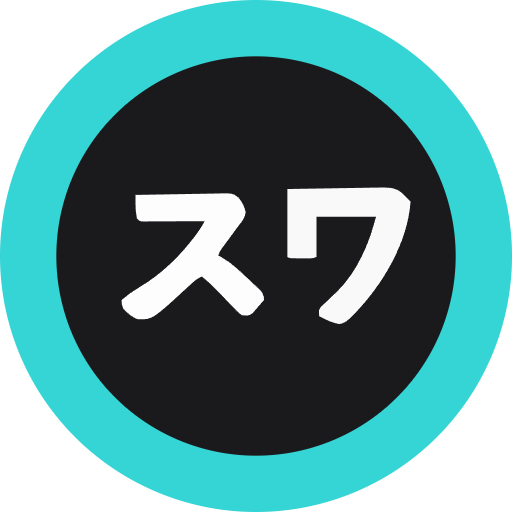
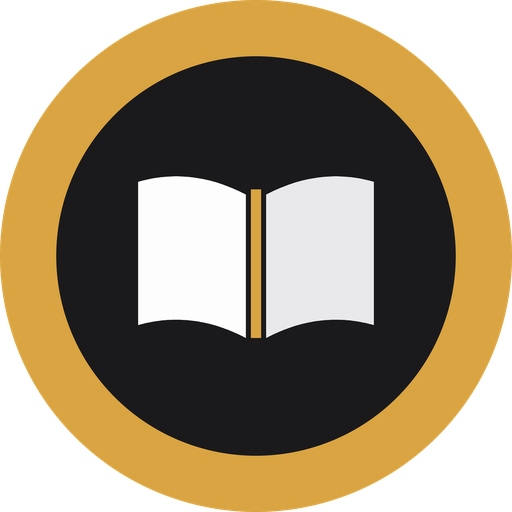
Rebrand the WebUI from Suwayomi/Manatan to Lanobe
Nothing user-visible said "Lanobe". The branding was inherited in three
layers and each said something different: index.html claimed "Manatan",
the runtime overwrote the tab with "- Suwayomi", and the icons were
Suwayomi's artwork.

The tab title came from NavbarContext, which unconditionally appended
" - Suwayomi". Its browserTitle argument defaults to '' whenever the
title is a ReactNode rather than a string, so on those routes the tab
rendered a bare "- Suwayomi" with nothing before the separator. Made the
empty case collapse to just "Lanobe" instead of leaking the dash.

Also replaced: the splash logo (new LanobeLogo, an open book on a dark
disc), every favicon and PWA icon, the manifest name and theme colour,
the meta description -- which described a manga reader running
tachiyomi's extensions -- and the login failure toast.

Deliberately left alone:
  - src/Manatan/ keeps its name to stay diffable against upstream.
  - The ManatanNative / ManatanHost bridge identifiers are internal.
  - AppStorage's `name: 'Manatan'` is the IndexedDB database name.
    Renaming it would point the app at a fresh empty store and orphan
    custom fonts and cached novel content, the same reason
    .manatan-metadata keeps its name.

The icons are generated by a Pillow script rather than rasterised from
the SVG, because there is no SVG rasteriser available here; LanobeLogo.tsx
and favicon.svg are hand-synced and both carry a comment saying so.
[…]

diff --git a/WebUI/src/features/navigation-bar/NavbarContext.tsx b/WebUI/src/features/navigation-bar/NavbarContext.tsx
@@ -11,7 +11,7 @@ import { INavbarOverride, NavbarContextType } from '@/features/navigation-bar/Na
 import { useLocalStorage } from '@/base/hooks/useStorage.tsx';
 
 export const NavBarContext = React.createContext<NavbarContextType>({
-    title: 'Suwayomi',
+    title: 'Lanobe',
     setTitle: (): void => {},
     appBarHeight: 0,
     setAppBarHeight: (): void => {},
@@ -36,7 +36,7 @@ interface IProps {
 }
 
 export function NavBarContextProvider({ children }: IProps) {
-    const [title, setTitle] = useState<string | React.ReactNode>('Suwayomi');
+    const [title, setTitle] = useState<string | React.ReactNode>('Lanobe');
     const [action, setAction] = useState<any>(<div />);
     const [appBarHeight, setAppBarHeight] = useState(0);
     const [override, setOverride] = useState<INavbarOverride>({
@@ -50,7 +50,7 @@ export function NavBarContextProvider({ children }: IProps) {
 
     const updateTitle = useCallback(
         (newTitle: string | React.ReactNode, browserTitle: string = typeof newTitle === 'string' ? newTitle : '') => {
-            document.title = `${browserTitle} - Suwayomi`;
+            document.title = browserTitle ? `${browserTitle} - Lanobe` : 'Lanobe';
             setTitle(newTitle);
         },
         [setTitle],

diff --git a/WebUI/src/assets/LanobeLogo.tsx b/WebUI/src/assets/LanobeLogo.tsx
@@ -1,0 +1,21 @@
+import SvgIcon, { SvgIconProps } from '@mui/material/SvgIcon';
+
+/**
+ * Lanobe's mark: an open book on a dark disc.
+ *
+ * Deliberately plain and geometric so it stays legible at favicon sizes, where
+ * the 96x96 PNG is rendered down to 16px. Kept in sync by hand with
+ * `WebUI/public/favicon.svg` -- if you change one, change the other, or the tab
+ * icon and the splash screen drift apart.
+ */
+export const LanobeLogo = ({ circleRingColor = '#d9a441', ...props }: SvgIconProps & { circleRingColor?: string }) => (
+    <SvgIcon {...props}>
+        <svg version="1.1" viewBox="0 0 100 100" xmlns="http://www.w3.org/2000/svg">
+            <circle cx="50" cy="50" r="50" fill={circleRingColor} />
+            <circle cx="50" cy="50" r="39" fill="#1a1a1d" />
+            <path d="M27 35.5q10.5-3 21 2.5v28q-10.5-5.5-21-2.5z" fill="#fdfdfd" />
+            <path d="M73 35.5q-10.5-3-21 2.5v28q10.5-5.5 21-2.5z" fill="#e9e9ec" />
+            <rect x="49" y="37" width="2" height="29" rx="1" fill={circleRingColor} />
+        </svg>
+    </SvgIcon>
+);

diff --git a/WebUI/src/features/authentication/components/SplashScreen.tsx b/WebUI/src/features/authentication/components/SplashScreen.tsx
@@ -9,7 +9,7 @@
 import { useTheme } from '@mui/material/styles';
 import Stack, { StackProps } from '@mui/material/Stack';
 import { ComponentProps } from 'react';
-import { SuwayomiLogo } from '@/assets/SuwayomiLogo.tsx';
+import { LanobeLogo } from '@/assets/LanobeLogo.tsx';
 import { ServerAddressSetting } from '@/features/settings/components/ServerAddressSetting.tsx';
 
 import { ThemeMode } from '@/features/theme/AppTheme.types.ts';
@@ -19,7 +19,7 @@ export const SplashScreen = ({
 }: {
     slots?: {
         stackProps?: StackProps;
-        logoProps?: ComponentProps<typeof SuwayomiLogo>;
+        logoProps?: ComponentProps<typeof LanobeLogo>;
         serverAddressProps?: StackProps;
     };
 }) => {
@@ -41,7 +41,7 @@ export const SplashScreen = ({
                 ...slots?.stackProps?.sx,
             }}
         >
-            <SuwayomiLogo
+            <LanobeLogo
                 circleRingColor={
                     theme.palette.mode === ThemeMode.DARK ? theme.palette.primary.light : theme.palette.primary.dark
                 }

diff --git a/WebUI/index.html b/WebUI/index.html
@@ -1,11 +1,11 @@
 <!DOCTYPE html>
 <html>
 <head>
-    <title>Manatan</title>
-    <meta name="apple-mobile-web-app-title" content="Manatan" />
+    <title>Lanobe</title>
+    <meta name="apple-mobile-web-app-title" content="Lanobe" />
     <meta
             name="description"
-            content="A manga reader with instant ocr and optionally enabled native yomitan like popup dictionary that runs tachiyomi's extensions"
+            content="A self-hosted Japanese light-novel reader with instant dictionary lookup, saved kanji tracking and Anki export"
     />
 
     <meta charset="utf-8"/>

diff --git a/WebUI/src/features/authentication/screens/LoginPage.tsx b/WebUI/src/features/authentication/screens/LoginPage.tsx
@@ -46,7 +46,7 @@ export const LoginPage = () => {
                 navigate(redirect ?? AppRoutes.root.path);
             }
         } catch (e) {
-            makeToast(t('tracking.action.login.label.failure', { name: 'Suwayomi' }), 'error', getErrorMessage(e));
+            makeToast(t('tracking.action.login.label.failure', { name: 'Lanobe' }), 'error', getErrorMessage(e));
         }
     };
 
